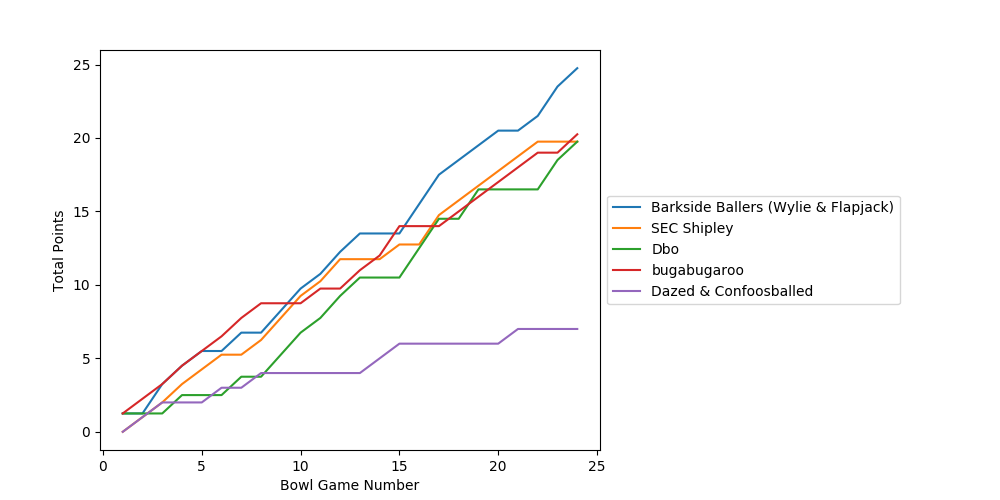
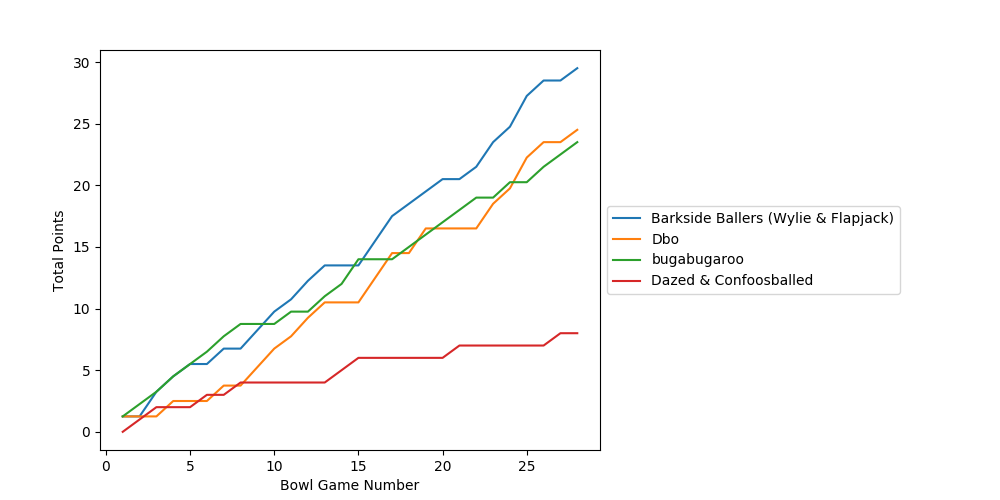
12-29 update highlighted

diff --git a/bowl_pool/2023-2024/results.html b/bowl_pool/2023-2024/results.html
@@ -1096,33 +1096,145 @@ ul.auto-toc {
 <td>0.0</td>
 <td>1.25</td>
 </tr>
+<tr><td>25</td>
+<td>Fenway Bowl</td>
+<td>SMU</td>
+<td>Boston College</td>
+<td>10.5</td>
+<td>0.0</td>
+<td>0.0</td>
+<td>0.0</td>
+<td>2.5</td>
+<td>0.0</td>
+<td>0.0</td>
+<td>0.0</td>
+<td>0.0</td>
+<td>0.0</td>
+<td>2.5</td>
+<td>0.0</td>
+<td>0.0</td>
+<td>2.5</td>
+<td>0.0</td>
+<td>0.0</td>
+<td>2.5</td>
+<td>0.0</td>
+<td>2.5</td>
+<td>0.0</td>
+<td>0.0</td>
+<td>0.0</td>
+<td>0.0</td>
+</tr>
+<tr><td>26</td>
+<td>Pinstripe Bowl</td>
+<td>Miami</td>
+<td>Rutgers</td>
+<td>3.5</td>
+<td>1.25</td>
+<td>0.0</td>
+<td>0.0</td>
+<td>1.25</td>
+<td>1.25</td>
+<td>1.25</td>
+<td>1.25</td>
+<td>0.0</td>
+<td>0.0</td>
+<td>1.25</td>
+<td>0.0</td>
+<td>0.0</td>
+<td>1.25</td>
+<td>0.0</td>
+<td>1.25</td>
+<td>0.0</td>
+<td>0.0</td>
+<td>1.25</td>
+<td>0.0</td>
+<td>0.0</td>
+<td>0.0</td>
+<td>0.0</td>
+</tr>
+<tr><td>27</td>
+<td>Pop-Tarts Bowl</td>
+<td>Kansas State</td>
+<td>NC State</td>
+<td>3.5</td>
+<td>1.0</td>
+<td>1.0</td>
+<td>1.0</td>
+<td>0.0</td>
+<td>1.0</td>
+<td>1.0</td>
+<td>1.0</td>
+<td>1.0</td>
+<td>1.0</td>
+<td>0.0</td>
+<td>0.0</td>
+<td>1.0</td>
+<td>0.0</td>
+<td>1.0</td>
+<td>1.0</td>
+<td>1.0</td>
+<td>1.0</td>
+<td>0.0</td>
+<td>0.0</td>
+<td>1.0</td>
+<td>0.0</td>
+<td>1.0</td>
+</tr>
+<tr><td>28</td>
+<td>Alamo Bowl</td>
+<td>Arizona</td>
+<td>Oklahoma</td>
+<td>3.5</td>
+<td>0.0</td>
+<td>1.0</td>
+<td>1.0</td>
+<td>1.0</td>
+<td>1.0</td>
+<td>0.0</td>
+<td>1.0</td>
+<td>0.0</td>
+<td>0.0</td>
+<td>1.0</td>
+<td>1.0</td>
+<td>0.0</td>
+<td>1.0</td>
+<td>0.0</td>
+<td>1.0</td>
+<td>0.0</td>
+<td>0.0</td>
+<td>0.0</td>
+<td>1.0</td>
+<td>0.0</td>
+<td>1.0</td>
+<td>0.0</td>
+</tr>
 <tr><td><strong>Totals</strong></td>
 <td>&nbsp;</td>
 <td>&nbsp;</td>
 <td>&nbsp;</td>
 <td>&nbsp;</td>
-<td><strong>16.25</strong></td>
-<td><strong>12.25</strong></td>
-<td><strong>12.75</strong></td>
-<td><strong>24.75</strong></td>
-<td><strong>14.0</strong></td>
-<td><strong>11.5</strong></td>
-<td><strong>20.25</strong></td>
-<td><strong>15.25</strong></td>
-<td><strong>7.0</strong></td>
-<td><strong>19.75</strong></td>
-<td><strong>14.0</strong></td>
+<td><strong>18.5</strong></td>
 <td><strong>14.25</strong></td>
-<td><strong>16.75</strong></td>
+<td><strong>14.75</strong></td>
+<td><strong>29.5</strong></td>
 <td><strong>17.25</strong></td>
-<td><strong>17.0</strong></td>
+<td><strong>13.75</strong></td>
+<td><strong>23.5</strong></td>
+<td><strong>16.25</strong></td>
+<td><strong>8.0</strong></td>
+<td><strong>24.5</strong></td>
 <td><strong>15.0</strong></td>
-<td><strong>15.5</strong></td>
-<td><strong>17.75</strong></td>
-<td><strong>19.75</strong></td>
-<td><strong>13.0</strong></td>
-<td><strong>16.0</strong></td>
-<td><strong>11.25</strong></td>
+<td><strong>15.25</strong></td>
+<td><strong>21.5</strong></td>
+<td><strong>18.25</strong></td>
+<td><strong>20.25</strong></td>
+<td><strong>18.5</strong></td>
+<td><strong>16.5</strong></td>
+<td><strong>21.5</strong></td>
+<td><strong>20.75</strong></td>
+<td><strong>14.0</strong></td>
+<td><strong>17.0</strong></td>
+<td><strong>12.25</strong></td>
 </tr>
 </tbody>
 </table>

diff --git a/bowl_pool/2023-2024/rankings.html b/bowl_pool/2023-2024/rankings.html
@@ -364,32 +364,32 @@ ul.auto-toc {
 
 
 <div class="line-block">
-<div class="line"><em>Last updated:  2023-12-28 09:14:36</em></div>
-<div class="line"><em>Last bowl scored:  TexasBowl (Texas A&amp;M vs. Oklahoma State)</em></div>
+<div class="line"><em>Last updated:  2023-12-29 08:19:54</em></div>
+<div class="line"><em>Last bowl scored:  Alamo Bowl (Arizona vs. Oklahoma)</em></div>
 </div>
 <div class="line-block">
-<div class="line">1. <strong>Barkside Ballers (Wylie &amp; Flapjack) 24.75</strong></div>
-<div class="line">2. <strong>bugabugaroo 20.25</strong></div>
-<div class="line">3. <strong>Dbo 19.75</strong></div>
-<div class="line">3. <strong>SEC Shipley 19.75</strong></div>
-<div class="line">5. Sascha Picks Dogs 17.75</div>
-<div class="line">6. LadyLonghorn 17.25</div>
-<div class="line">7. MamaDAWG 17.0</div>
-<div class="line">8. Kylo Bad Dog 16.75</div>
-<div class="line">9. #MamaBear 16.25</div>
-<div class="line">10. The New Guy 16.0</div>
-<div class="line">11. Rando Cal Rece Ian 15.5</div>
-<div class="line">12. COOKIES 15.25</div>
-<div class="line">13. Manda Panda 15.0</div>
-<div class="line">14. GlamKam 14.25</div>
-<div class="line">15. Bear-in-Law 14.0</div>
-<div class="line">15. em&amp;em 14.0</div>
-<div class="line">17. Sir Fluffy McFlufferson 13.0</div>
-<div class="line">18. Badgers Rock! 12.75</div>
-<div class="line">19. Aggie Austin 12.25</div>
-<div class="line">20. Big 12 Bibby 11.5</div>
-<div class="line">21. WD50 11.25</div>
-<div class="line">22. <strong>Dazed &amp; Confoosballed 7.0</strong></div>
+<div class="line">1. <strong>Barkside Ballers (Wylie &amp; Flapjack) 29.5</strong></div>
+<div class="line">2. <strong>Dbo 24.5</strong></div>
+<div class="line">3. <strong>bugabugaroo 23.5</strong></div>
+<div class="line">4. Kylo Bad Dog 21.5</div>
+<div class="line">4. Sascha Picks Dogs 21.5</div>
+<div class="line">6. SEC Shipley 20.75</div>
+<div class="line">7. MamaDAWG 20.25</div>
+<div class="line">8. #MamaBear 18.5</div>
+<div class="line">8. Manda Panda 18.5</div>
+<div class="line">10. LadyLonghorn 18.25</div>
+<div class="line">11. Bear-in-Law 17.25</div>
+<div class="line">12. The New Guy 17.0</div>
+<div class="line">13. Rando Cal Rece Ian 16.5</div>
+<div class="line">14. COOKIES 16.25</div>
+<div class="line">15. GlamKam 15.25</div>
+<div class="line">16. em&amp;em 15.0</div>
+<div class="line">17. Badgers Rock! 14.75</div>
+<div class="line">18. Aggie Austin 14.25</div>
+<div class="line">19. Sir Fluffy McFlufferson 14.0</div>
+<div class="line">20. Big 12 Bibby 13.75</div>
+<div class="line">21. WD50 12.25</div>
+<div class="line">22. <strong>Dazed &amp; Confoosballed 8.0</strong></div>
 </div>
 </div>
 </body>

diff --git a/bowl_pool/2023-2024/index.html b/bowl_pool/2023-2024/index.html
@@ -365,8 +365,8 @@ ul.auto-toc {
 
 <p><strong>2023-2024 Bowl Pool</strong></p>
 <div class="line-block">
-<div class="line"><em>Last updated:  2023-12-28 09:14:37</em></div>
-<div class="line"><em>Last bowl scored:  TexasBowl (Texas A&amp;M vs. Oklahoma State)</em></div>
+<div class="line"><em>Last updated:  2023-12-29 08:19:54</em></div>
+<div class="line"><em>Last bowl scored:  Alamo Bowl (Arizona vs. Oklahoma)</em></div>
 </div>
 <ul class="simple">
 <li><a class="reference external" href="rankings.html">Rankings</a> (<a class="reference external" href="rankings.csv">csv</a>)</li>
